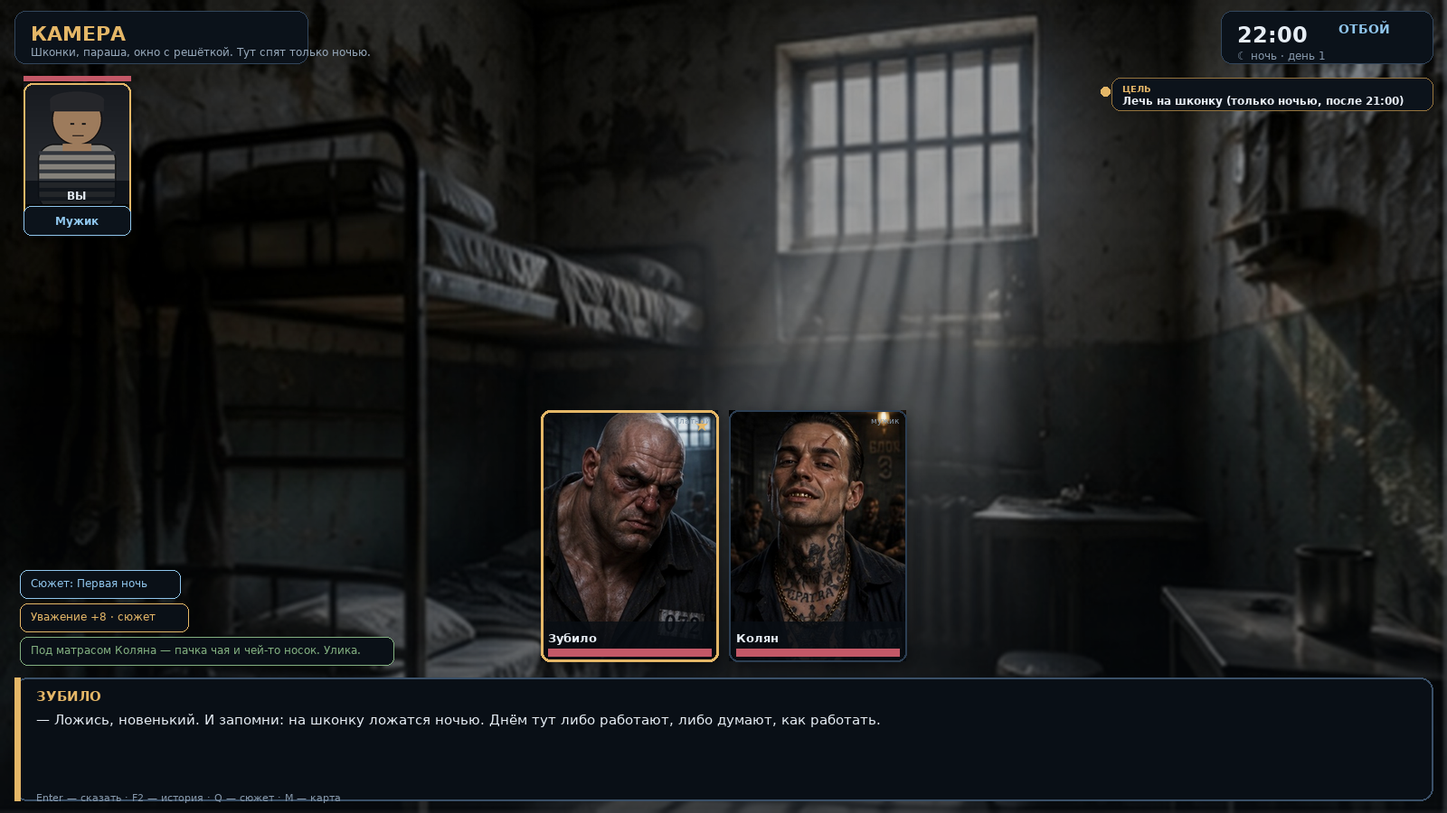
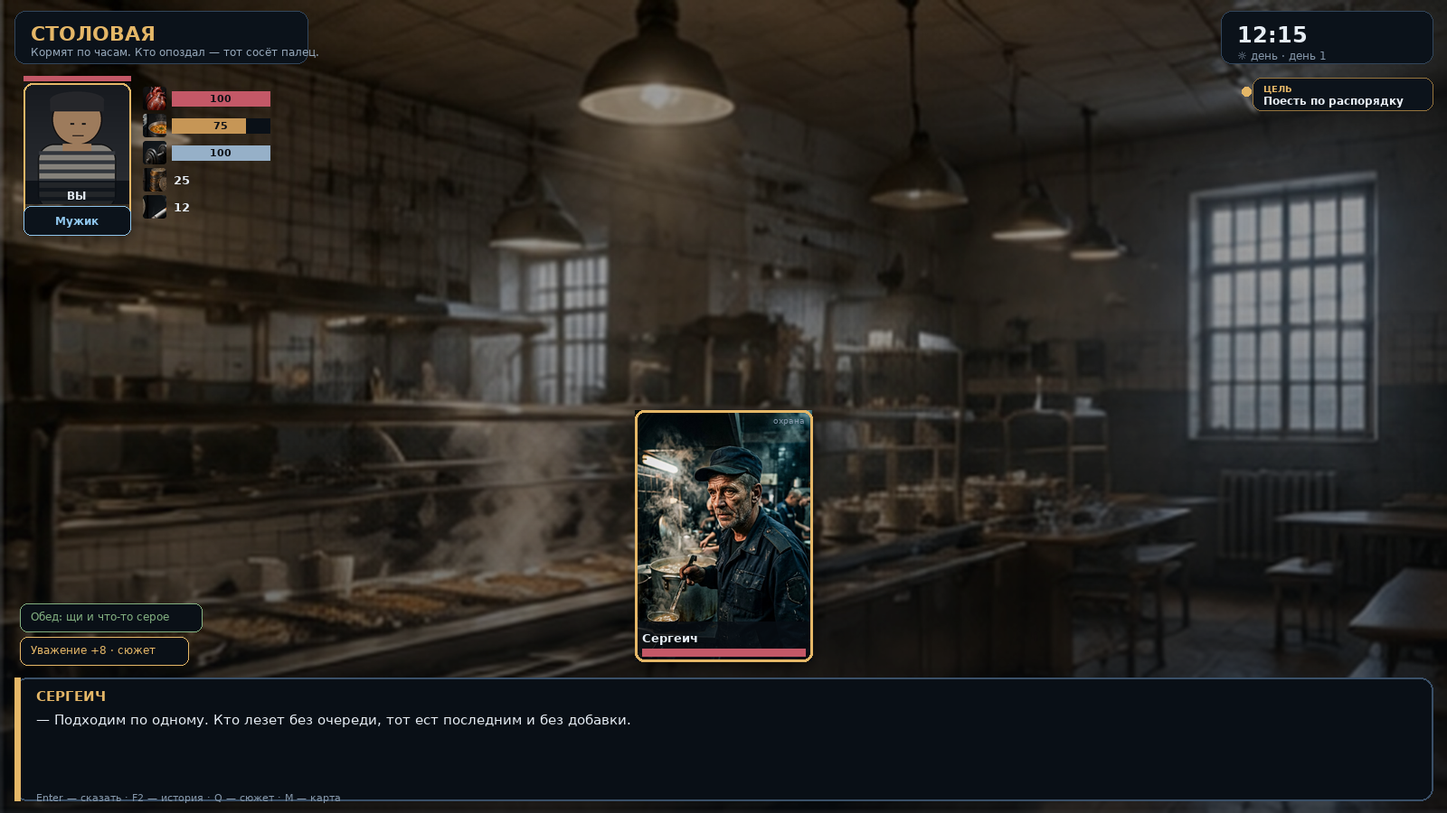
Иконки пользователя: нарезка коллажа 8×4, связка с предметами и HUD, 6 новых портретов
- tools/slice_icons.py: нарезка присланного коллажа на 32 иконки с обрезкой по объекту,
  скруглением и сборкой assets/icon_sheet.png
- предметы и карточки действий используют новые иконки; в сцене появились полоски
  HP/еды/сил и счётчики рублей и сигарет с иконками
- 3 отдельные иконки (хлеб, телефон, крестик), нарисованные под тот же стиль
- убраны дубли портретов: Сергеич, Прач, Седой, Банный Философ, Колян, Зинаида
  получили собственные портреты (было 8 картинок на 14 NPC)

diff --git a/main.py b/main.py
@@ -688,57 +688,57 @@ class App:
             cards.append((title, subtitle, icon, fn, note, allowed))
 
         loc = LOCATIONS[s['loc']]['key']
-        add('Осмотреться', 'Оглядеться, найти мелочь или зацепку', 'book',
+        add('Осмотреться', 'Оглядеться, найти мелочь или зацепку', 'magnifier',
             lambda: self.do_action('look'), '10 мин')
         add('Поискать схрон', 'Схроны, нычки и чужие секреты', 'rat',
             lambda: self.do_action('search'), '30 мин')
         add('Перекур', 'Сигарета, разговор, минута покоя', 'cig', lambda: self.do_action('smoke'), '5 мин')
         job = next((j for j in JOBS.values() if j['loc'] == s['loc']), None)
         if job:
-            add('Работать', job['name'] + ' · +%d₽' % job['pay'], 'sack',
+            add('Работать', job['name'] + ' · +%d₽' % job['pay'], 'medal',
                 lambda: self.do_action('work'), '%d мин' % job['time'])
         if loc == 'mess':
             meal, dish = self.world.meal_now()
             add('Поесть', (dish or 'сейчас не кормят') + ' · кормят 07:00, 12:00, 18:00', 'soup',
                 lambda: self.do_action('eat'), '20 мин', bool(meal), 'время')
         if loc == 'gym':
-            add('Тренажёрка', 'Тянуть железо и качать силу', 'fist', lambda: self.do_action('train'), '60 мин')
-            add('Помериться силой', 'Мини-игра: подходы', 'star', lambda: self.minigame('pushups'), '30 мин')
+            add('Тренажёрка', 'Тянуть железо и качать силу', 'barbell', lambda: self.do_action('train'), '60 мин')
+            add('Помериться силой', 'Мини-игра: подходы', 'gloves', lambda: self.minigame('pushups'), '30 мин')
         if loc == 'temple':
-            add('Помолиться', 'Господь всё слышит, карму чистит', 'cross', lambda: self.do_action('pray'), '20 мин')
+            add('Помолиться', 'Господь всё слышит, карму чистит', 'candle', lambda: self.do_action('pray'), '20 мин')
             add('Поговорить с Господом', 'Признание, вопрос или благодарность', 'cross',
                 self.talk_god, '15 мин')
         if loc == 'visit':
-            add('Свиданка', 'Поговорить с матерью, взять передачку', 'phone',
+            add('Свиданка', 'Поговорить с матерью, взять передачку', 'ear',
                 lambda: self.do_action('visit'), '60 мин', not s['visit'].get('used'))
         if loc == 'cam':
-            add('Сварить чифирь', 'Из чая — напиток для взрослых', 'fire',
+            add('Сварить чифирь', 'Из чая — напиток для взрослых', 'pot',
                 lambda: self.do_action('cook'), '25 мин', self.world.has('tea'))
-            add('Лечь на шконку', 'Только ночью, после 21:00', 'clock',
+            add('Лечь на шконку', 'Только ночью, после 21:00', 'bunk',
                 lambda: self.do_action('sleep'), 'до утра', self.world.can_sleep(),
                 'только ночью' if not self.world.can_sleep() else '')
-            add('Спрятать вещь в схрон', 'Убрать из сумки то, что ищет шмон', 'wall',
+            add('Спрятать вещь в схрон', 'Убрать из сумки то, что ищет шмон', 'lock',
                 lambda: self.open_stash(), '10 мин')
         if loc == 'cellar':
-            add('Копать тоннель', 'Мини-игра «Подкоп» — шесть участков', 'wall',
+            add('Копать тоннель', 'Мини-игра «Подкоп» — шесть участков', 'bars',
                 lambda: self.minigame('tunnel'), '30 мин')
         if loc == 'club':
-            add('Покер', 'Одна карта, большой блеф', 'cards',
+            add('Покер', 'Одна карта, большой блеф', 'chess',
                 lambda: self.minigame('poker'), '20 мин', self.world.inv('cig') >= 5)
-            add('Шахматы Лема', 'Тактика на троих', 'book', lambda: self.minigame('chess'), '20 мин')
+            add('Шахматы Лема', 'Тактика на троих', 'chess', lambda: self.minigame('chess'), '20 мин')
         if loc == 'bath':
-            add('Танцы на стрелках', 'Баня, пар и ритм', 'star', lambda: self.minigame('dance'), '20 мин')
+            add('Танцы на стрелках', 'Баня, пар и ритм', 'radio', lambda: self.minigame('dance'), '20 мин')
         if loc == 'mess':
             add('Сапёр в каше', 'Найти в баланде то, что не съедобно', 'soup',
                 lambda: self.minigame('porridge'), '15 мин')
         if loc == 'laundry':
-            add('Фейк-завод', 'Запустить слух о ком надо', 'book',
+            add('Фейк-завод', 'Запустить слух о ком надо', 'radio',
                 lambda: self.minigame('factory'), '20 мин')
-        add('Встретиться с NPC', 'Решения: помочь, украсть, сдать', 'coin',
+        add('Встретиться с NPC', 'Решения: помочь, украсть, подставить, сдать', 'magnifier',
             self.decisions, '10 мин', bool(self.npc))
-        add('Бросить вызов', 'Дуэль или босс-испытание', 'fist',
+        add('Бросить вызов', 'Дуэль или босс-испытание', 'gloves',
             lambda: self.fight(None), '10 мин', bool(self.npc))
-        add('Поговорить с NPC', 'Открыть диалог снизу', 'phone',
+        add('Поговорить с NPC', 'Открыть диалог снизу', 'book',
             self.focus_entry, '', bool(self.npc))
         for i, (title, subtitle, icon, fn, note, allowed) in enumerate(cards):
             c = Card(grid, self, title, subtitle, icon, fn, disabled=not allowed, note=note)

diff --git a/tools/slice_icons.py b/tools/slice_icons.py
@@ -1,0 +1,103 @@
+# -*- coding: utf-8 -*-
+"""Нарезка присланного коллажа иконок на отдельные PNG.
+
+Сетка: 8 колонок × 4 ряда (1402×1122). Режется равномерно по колонкам и по
+найденным тёмным дорожкам между рядами, затем каждая плитка обрезается до
+квадрата, получает скруглённые углы и сохраняется в assets/icons/.
+
+Запуск: python tools/slice_icons.py [путь_к_коллажу]
+"""
+import os
+import sys
+
+import numpy as np
+from PIL import Image, ImageDraw
+
+BASE = os.path.dirname(os.path.dirname(os.path.abspath(__file__)))
+OUT = os.path.join(BASE, "assets", "icons")
+COLS, ROWS = 8, 4
+
+# имена по порядку слева направо, сверху вниз
+NAMES = [
+    "heart", "cap", "star", "coin", "cig", "clock", "lock", "radiation",
+    "book", "barbell", "bunk", "zone", "soup", "pot", "water", "papers",
+    "sock", "candle", "bars", "money", "skull", "medal", "boot", "gloves",
+    "knife", "jacket", "magnifier", "ear", "rat", "firstaid", "radio", "chess",
+]
+# дополнительные иконки, нарисованные отдельно (в коллаже их не было)
+EXTRA = ["bread", "phone", "cross"]
+
+# центры рядов (по анализу яркости коллажа)
+ROW_CENTERS = [133, 396, 660, 941]
+
+
+def rounded(im, radius_frac=0.13):
+    im = im.convert("RGB")
+    size = im.size[0]
+    mask = Image.new("L", (size, size), 0)
+    d = ImageDraw.Draw(mask)
+    d.rounded_rectangle((0, 0, size - 1, size - 1), radius=int(size * radius_frac), fill=255)
+    out = Image.new("RGBA", (size, size), (0, 0, 0, 0))
+    out.paste(im, (0, 0))
+    out.putalpha(mask)
+    return out
+
+
+def main(path=None):
+    path = path or sys.argv[1] if len(sys.argv) > 1 else None
+    if not path:
+        raise SystemExit("укажите путь к коллажу иконок")
+    src = Image.open(path).convert("RGB")
+    W, H = src.size
+    os.makedirs(OUT, exist_ok=True)
+    pitch = W / COLS
+    gray = np.asarray(src.convert("L"), dtype=float)
+    k = 0
+    made = []
+    for r in range(ROWS):
+        yc = ROW_CENTERS[r]
+        for c in range(COLS):
+            x0, x1 = int(c * pitch) + 7, int((c + 1) * pitch) - 7
+            y0, y1 = max(0, yc - 104), min(H, yc + 104)
+            sub = gray[y0:y1, x0:x1]
+            mask = sub > 35
+            if mask.sum() > 40:
+                ys, xs = np.nonzero(mask)
+                cx, cy = x0 + xs.mean(), y0 + ys.mean()
+                span = max(xs.max() - xs.min(), ys.max() - ys.min())
+            else:
+                cx, cy, span = (x0 + x1) / 2, yc, 150
+            side = int(min(162, x1 - x0, y1 - y0, max(140, span * 1.12)))
+            left = int(min(max(x0, cx - side / 2), x1 - side))
+            top = int(min(max(y0, cy - side / 2), y1 - side))
+            tile = src.crop((left, top, left + side, top + side))
+            inset = int(tile.width * 0.06)
+            tile = tile.crop((inset, inset, tile.width - inset, tile.height - inset))
+            tile = tile.resize((240, 240), Image.Resampling.LANCZOS)
+            name = NAMES[k] if k < len(NAMES) else "icon_%02d" % k
+            rounded(tile).save(os.path.join(OUT, name + ".png"))
+            made.append(name)
+            k += 1
+    made += [n for n in EXTRA if os.path.isfile(os.path.join(OUT, n + ".png"))]
+    rows = (len(made) + COLS - 1) // COLS
+    sheet = Image.new("RGBA", (COLS * 128 + 20, rows * 128 + 46), (11, 17, 24, 255))
+    sd = ImageDraw.Draw(sheet)
+    try:
+        from PIL import ImageFont
+        tf = ImageFont.truetype("/usr/share/fonts/truetype/dejavu/DejaVuSans-Bold.ttf", 17)
+        lf = ImageFont.truetype("/usr/share/fonts/truetype/dejavu/DejaVuSans.ttf", 11)
+    except OSError:
+        tf = lf = None
+    sd.text((10, 10), "ТЮРЯГА · иконки предметов", font=tf, fill=(229, 183, 103, 255))
+    for i, name in enumerate(made):
+        im = Image.open(os.path.join(OUT, name + ".png")).resize((118, 118), Image.Resampling.LANCZOS)
+        x, y = 10 + (i % COLS) * 128, 40 + (i // COLS) * 128
+        sheet.alpha_composite(im, (x, y))
+        sd.text((x + 59, y + 118), name, font=lf, fill=(135, 153, 172, 255), anchor="ma")
+    sheet.save(os.path.join(BASE, "assets", "icon_sheet.png"))
+    print("saved %d icons into assets/icons + icon_sheet.png" % len(made))
+    return made
+
+
+if __name__ == "__main__":
+    main()

diff --git a/data.py b/data.py
@@ -117,33 +117,33 @@ BOSSES = {
 ITEMS = {
     "cig": {"name": "Сигареты", "icon": "cig", "kind": "валюта", "price": 0,
             "desc": "Главная валюта зоны. Пачка решает больше, чем Конституция."},
-    "tea": {"name": "Чай", "icon": "tea", "kind": "еда", "price": 3,
+    "tea": {"name": "Чай", "icon": "pot", "kind": "еда", "price": 3,
             "desc": "Заварка. Из неё варят чифирь и решают вопросы."},
-    "chifir": {"name": "Чифирь", "icon": "fire", "kind": "еда", "price": 6,
+    "chifir": {"name": "Чифирь", "icon": "water", "kind": "еда", "price": 6,
                "desc": "Крепкий, как приговор. +20 выносливости, потом отходняк."},
     "soup": {"name": "Баланда", "icon": "soup", "kind": "еда", "price": 2,
              "desc": "Сытность +25. Состав не уточняется."},
-    "bread": {"name": "Хлеб", "icon": "sack", "kind": "еда", "price": 1,
+    "bread": {"name": "Хлеб", "icon": "bread", "kind": "еда", "price": 1,
               "desc": "Хлеб — всему голова. Особенно в ШИЗО."},
     "knife": {"name": "Заточка", "icon": "knife", "kind": "оружие", "price": 40,
               "damage": 24, "desc": "Напильник, изолента и три часа терпения."},
-    "armor": {"name": "Телогрейка", "icon": "shield", "kind": "броня", "price": 35,
+    "armor": {"name": "Телогрейка", "icon": "jacket", "kind": "броня", "price": 35,
               "armor": 7, "desc": "Тяжёлая, пахнет соляркой, зато держит удар."},
-    "shoe": {"name": "Кроссовки", "icon": "shoe", "kind": "обувь", "price": 30,
+    "shoe": {"name": "Кроссовки", "icon": "boot", "kind": "обувь", "price": 30,
              "agility": 2, "desc": "Скрипят, но бегают. Воруют их первыми."},
-    "cards": {"name": "Карты", "icon": "cards", "kind": "инструмент", "price": 15,
+    "cards": {"name": "Карты", "icon": "chess", "kind": "инструмент", "price": 15,
               "desc": "Покер, блеф и один туз в рукаве."},
     "phone": {"name": "Телефон", "icon": "phone", "kind": "контрабанда", "price": 60,
               "desc": "Пронести — подвиг. Найти — счастье. Попасться — ШИЗО."},
     "star": {"name": "Звезда", "icon": "star", "kind": "трофей", "price": 0,
              "desc": "Трофей за босса. Носить — уважение, потерять — позор."},
-    "key": {"name": "Ключ", "icon": "key", "kind": "трофей", "price": 0,
+    "key": {"name": "Ключ", "icon": "lock", "kind": "трофей", "price": 0,
             "desc": "Чей-то ключ. От чего — вопрос к следующей главе."},
     "cross": {"name": "Крестик", "icon": "cross", "kind": "оберег", "price": 5,
               "desc": "Помогает не столько от пули, сколько от совести."},
-    "fist": {"name": "Кулак Гири", "icon": "fist", "kind": "трофей", "price": 0,
+    "fist": {"name": "Кулак Гири", "icon": "gloves", "kind": "трофей", "price": 0,
              "desc": "Гиря пожал руку. Теперь ты — часть тренажёрки."},
-    "sack": {"name": "Пайка", "icon": "sack", "kind": "еда", "price": 1,
+    "sack": {"name": "Пайка", "icon": "papers", "kind": "еда", "price": 1,
              "desc": "Пайка хлеба, заверенная совестью."},
 }
 

diff --git a/render.py b/render.py
@@ -186,6 +186,9 @@ class SceneRenderer:
         if world.is_night():
             d.text((W - 120, 24), "ОТБОЙ", font=font(14, True), fill=BLUE)
 
+        # ресурсы с иконками под верхней плашкой
+        self._resources(img, d, world, 158, 96)
+
         # карточки NPC в «сцене»
         present = world.witnesses()
         selected = ui.get("npc")
@@ -258,6 +261,32 @@ class SceneRenderer:
             y -= 6
         return img.convert("RGB"), hits
 
+    def _resources(self, img, d, world, x, y):
+        """Полоски HP / еды / сил + счётчики рублей и сигарет — с вашими иконками."""
+        s = world.s
+        items = [
+            ("heart", s["hp"], s["hp_max"], RED),
+            ("soup", s["food"], 100, (198, 150, 86)),
+            ("barbell", s["stamina"], s["stamina_max"], (150, 176, 200)),
+        ]
+        size = 26
+        for name, val, mx, col in items:
+            ic = self.icon(name, size)
+            if ic is not None:
+                img.alpha_composite(ic, (x, y))
+            bx = x + size + 6
+            d.rectangle((bx, y + 5, bx + 108, y + 21), fill=(10, 16, 23, 220))
+            frac = max(0.0, min(1.0, val / max(1, mx)))
+            d.rectangle((bx, y + 5, bx + 108 * frac, y + 21), fill=col)
+            d.text((bx + 54, y + 13), "%d" % val, font=font(11, True), fill=(12, 16, 22), anchor="mm")
+            y += size + 4
+        for name, val in (("money", s["rub"]), ("cig", world.inv("cig"))):
+            ic = self.icon(name, size)
+            if ic is not None:
+                img.alpha_composite(ic, (x, y))
+            d.text((x + size + 8, y + size // 2), str(val), font=font(13, True), fill=FG, anchor="lm")
+            y += size + 4
+
     def _npc_card(self, img, d, k, box, world, active, hover):
         x0, y0, x1, y1 = box
         w, h = x1 - x0, y1 - y0
@@ -276,7 +305,7 @@ class SceneRenderer:
         boss = BOSSES.get(k)
         dead = k in world.s["defeated"]
         if boss and not dead:
-            d.text((x0 + w - 26, y0 + 6), "★", font=font(18, True), fill=GOLD)
+            d.text((x0 + 7, y0 + 5), "★", font=font(17, True), fill=GOLD)
         if dead:
             d.line((x0 + 6, y0 + 6, x1 - 6, y1 - 50), fill=RED, width=3)
         # HP
@@ -402,14 +431,23 @@ class SceneRenderer:
 
     # ------------------------------------------------------------ инвентарь-иконки
     def icon(self, name, size=56):
+        """Иконка из assets/icons/<name>.png (или None, если такой нет)."""
         key = ("icon", name, size)
         if key in self.cache:
             return self.cache[key]
-        path = os.path.join(ASSETS, "item_%s.png" % name)
+        path = os.path.join(ASSETS, "icons", "%s.png" % name)
+        if not os.path.isfile(path):
+            path = os.path.join(ASSETS, "item_%s.png" % name)
         if not os.path.isfile(path):
             return None
         im = Image.open(path).convert("RGBA").resize((size, size), Image.Resampling.LANCZOS)
         self.cache[key] = im
+        return im
+
+    def icon_or_blank(self, name, size=56):
+        im = self.icon(name, size)
+        if im is None:
+            im = Image.new("RGBA", (size, size), (0, 0, 0, 0))
         return im
 
 

diff --git a/docs/CHANGELOG_v8.md b/docs/CHANGELOG_v8.md
@@ -68,8 +68,12 @@
   всплывающая игра «Ложка!» (ползунок, 5 подходов). Остальные (сапёр в каше, подходы
   у штанги, покер, шахматы Лема, подкоп, танцы, фейк-завод) — в «Действиях».
   Сигареты и выносливость дают бонус к шансам.
-* **Иконки предметов**: 20 штук нарисованы кодом (`tools/make_icons.py`) + коллаж
-  `assets/icon_sheet.png`. Никакой нарезки чужих картинок.
+* **Иконки предметов**: ваш коллаж 8×4 нарезан на 32 PNG в `assets/icons/`
+  (`tools/slice_icons.py`, там же имена и перерезка при замене картинки), плюс три
+  отдельные иконки: хлеб, телефон, крестик. Общий коллаж — `assets/icon_sheet.png`,
+  в игре: «Система → Иконки предметов».
+* Иконки используются в сумке, магазине, карточках действий, HUD (HP/еда/силы/рубли/
+  сигареты) и в коллаже.
 
 ## 8. Интерфейс
 * Всё управление: `Q` сюжет, `M` карта, `A` действия, `I` сумка, `J` журнал,

diff --git a/docs/ИНСТРУКЦИЯ_v8.md b/docs/ИНСТРУКЦИЯ_v8.md
@@ -45,3 +45,10 @@
 * `saves/town_v4.json`, автосохранение каждые 30 секунд и после действий.
 * Файлы v7 читаются автоматически (`cig` переносится в сумку, `ap` убирается).
 * Старые сохранения лучше забэкапить: `saves/town_v4.json.bak`.
+
+## Иконки
+* Лежат в `assets/icons/*.png` (32 из коллажа + хлеб, телефон, крестик).
+* Пересобрать из нового коллажа: `python tools/slice_icons.py путь_к_коллажу`.
+  Скрипт режет 8 колонок × 4 ряда, обрезает каждую плитку до квадрата по объекту,
+  скругляет углы и пересобирает `assets/icon_sheet.png`.
+* Соответствие «предмет → иконка» — в `data.py`, поле `icon` у предмета.

diff --git a/NEW_CHAT_CONTEXT.md b/NEW_CHAT_CONTEXT.md
@@ -18,7 +18,8 @@
   ИИ-потоки, таймер времени, автоподхват сцен.
 - `minigames.py` — всплывающие мини-игры (chow, porridge, pushups, poker, chess,
   tunnel, dance, factory). `battle_ui.py` — дуэли.
-- `tools/make_icons.py` — генератор иконок предметов + `assets/icon_sheet.png`.
+- `assets/icons/*.png` — иконки предметов (нарезка коллажа пользователя 8×4 + 3 отдельные),
+  `tools/slice_icons.py` — нарезка и сборка `assets/icon_sheet.png`.
 - `tests/` — 40 тестов (логика, сюжет целиком, миграция сейва, UI на заглушке tkinter).
 
 ## Правила дизайна, которые просил пользователь
